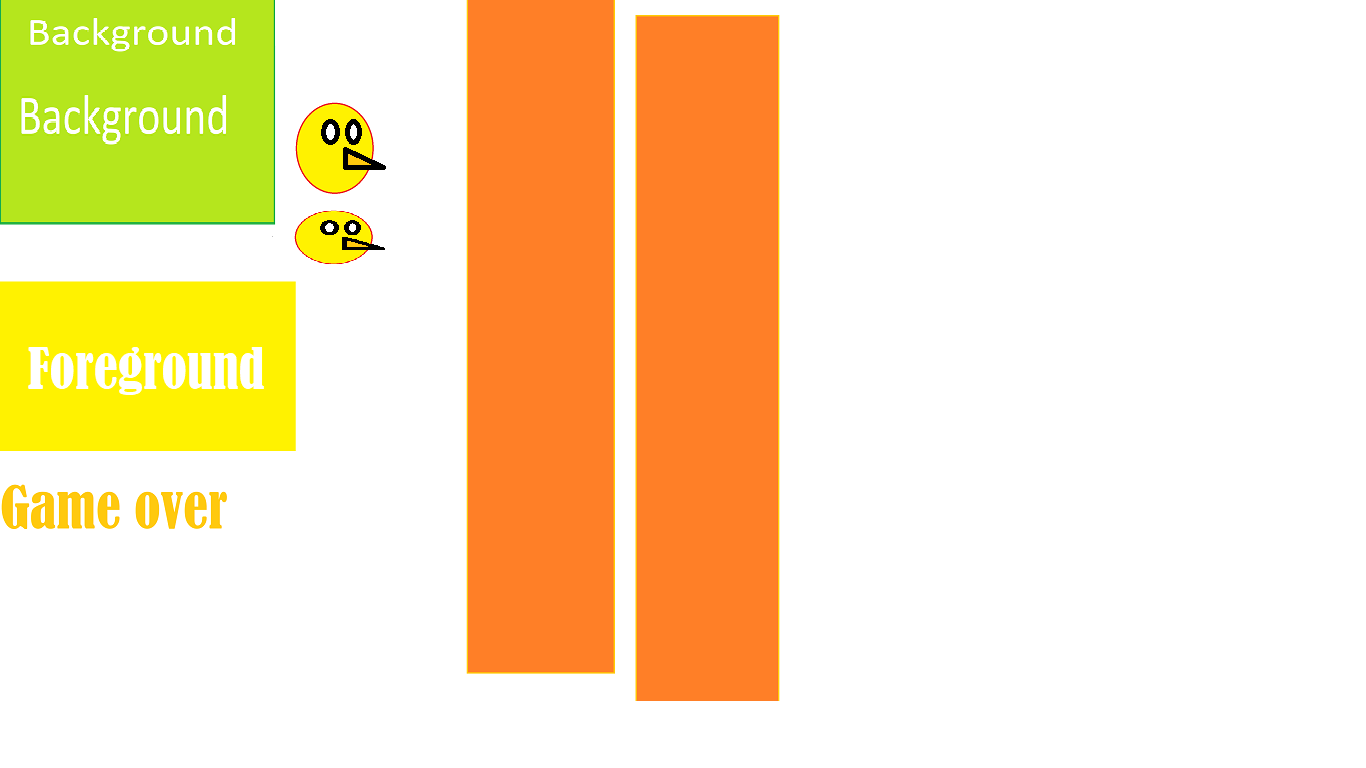
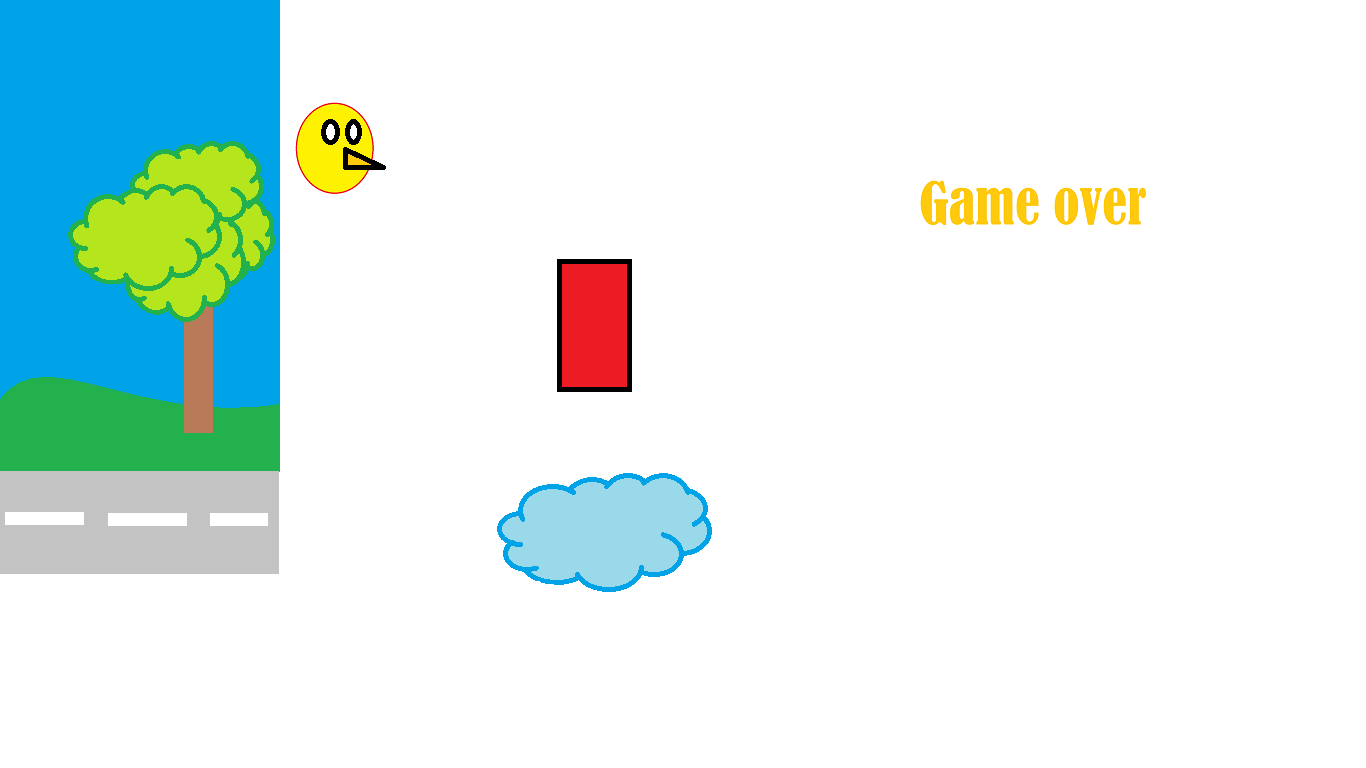
Modifications
I modified some elements as was indicated to the designer

diff --git a/js/main.js b/js/main.js
@@ -19,25 +19,11 @@ sprite.src = "img/level1.png";
 const bg={
     sX : 0,
     sY : 0,
-    w : 275,
-    h : 224,
+    w : 278,
+    h : 570,
     x : 0,
-    ch : 59,
-    y : cvs.height - 59,
-    draw: function(){
-        ctx.drawImage(sprite, this.sX, this.sY, this.w, this.h, this.x, this.y, this.w, this.ch);       
-        ctx.drawImage(sprite, this.sX, this.sY, this.w, this.h, this.x + this.w, this.y, this.w, this.ch);   
-    }
-}
-
-const fg={
-    sX: 0,
-    sY: 281,
-    w: 295,
-    h: 170,
-    x: 0,
-    y: cvs.height - 40,
-    ch: 45,
+    ch : 150,
+    y : 0,
     draw: function(){
         ctx.drawImage(sprite, this.sX, this.sY, this.w, this.h, this.x, this.y, this.w, this.ch);       
         ctx.drawImage(sprite, this.sX, this.sY, this.w, this.h, this.x + this.w, this.y, this.w, this.ch);   
@@ -45,21 +31,19 @@ const fg={
 }
 
 const character={
-    animation:[
-        {sX: 290, sY: 99, w: 98, h: 101, ch: 14, cw: 57},
-        {sX: 292, sY: 207, w: 95, h: 62, ch: 12, cw: 57}
-    ],   
-    y: 40, 
+    sX: 290,
+    sY: 99,
+    w: 98,
+    h: 101,
+    ch: 14,
+    cw: 57, 
+    y: 20, 
     x:  50,
-    frame: 0,
     speed: 0,
-    jump: 4.6,
-    gravity: 0.25,
+    jump: 1.4,
+    gravity: 0.08,
     draw: function(){
-        let charact = this.animation[this.frame];
-        this.y += this.frame == 1 ? 2 :0;
-        ctx.drawImage(sprite, charact.sX, charact.sY, charact.w, charact.h, this.x, this.y, charact.cw, charact.ch);       
-        this.y -= this.frame == 1 ? 2 :0;
+        ctx.drawImage(sprite, this.sX, this.sY, this.w, this.h, this.x, this.y, this.cw, this.ch);  
     },
 
     flap: function(){
@@ -67,32 +51,32 @@ const character={
     },
 
     update: function(){
-        this.frame += frames % 10 == 0 ? 1:0;
-        this.frame = this.frame % this.animation.length;
         if(state.current == state.getReady){
-
+            this.y = 20;
+            this.speed = 0;
         }else{
-            this.speed += this.gravity;
-            this.y += this.speed;
-            if(this.y+this.animation[this.frame].ch/2>=cvs.height-fg.ch){
-                this.y=cvs.height-fg.ch-this.animation[this.frame].ch/2;
+            if(this.y+this.ch/2>=110){
+                this.y=cvs.height-40;
                 if(state.current==state.game){
                     state.current = state.gameOver;
                 }
+            }else{                
+                this.speed += this.gravity;
+                this.y += this.speed;
             }
         }
     }
 }
 
 const over={
-    sX: 0,
-    sY: 480,
-    w: 231,
-    h: 53,
-    x: 70,
-    y: 50,
-    ch: 14,
-    cw: 171,
+    sX: 882.5,
+    sY: 0,
+    w: 320,
+    h: 570,
+    x: 0,
+    y: 0,
+    ch: 150,
+    cw: 320,
     draw: function(){
         if(state.current == state.gameOver)
             ctx.drawImage(sprite, this.sX, this.sY, this.w, this.h, this.x, this.y, this.cw, this.ch);       
@@ -124,7 +108,6 @@ function draw(){
     ctx.fillStyle =" #70c5ce";
     ctx.fillRect(0, 0, cvs.width, cvs.height);    
     bg.draw();
-    fg.draw();
     character.draw();    
     over.draw();
 }
